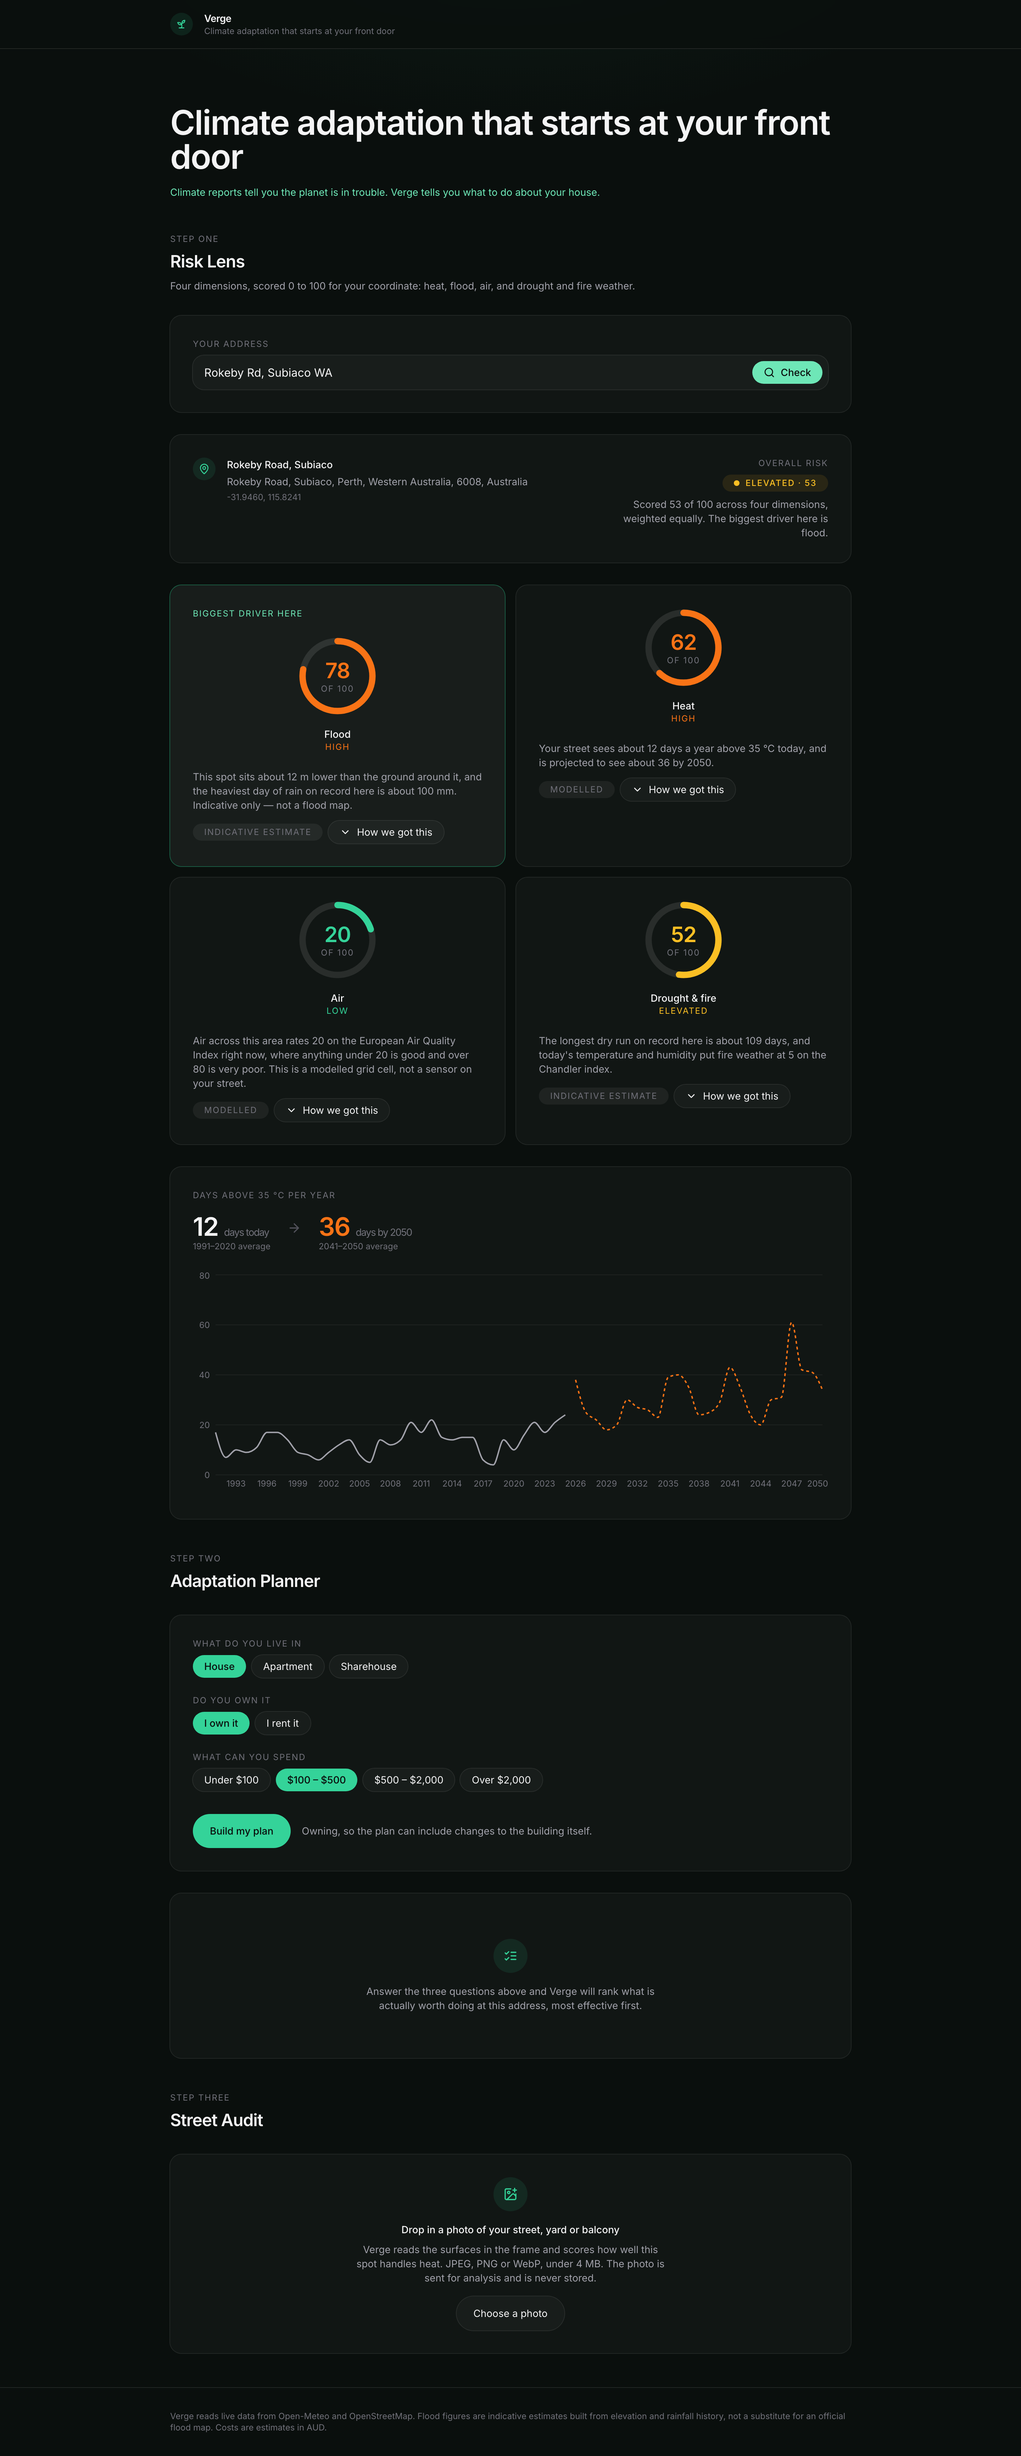
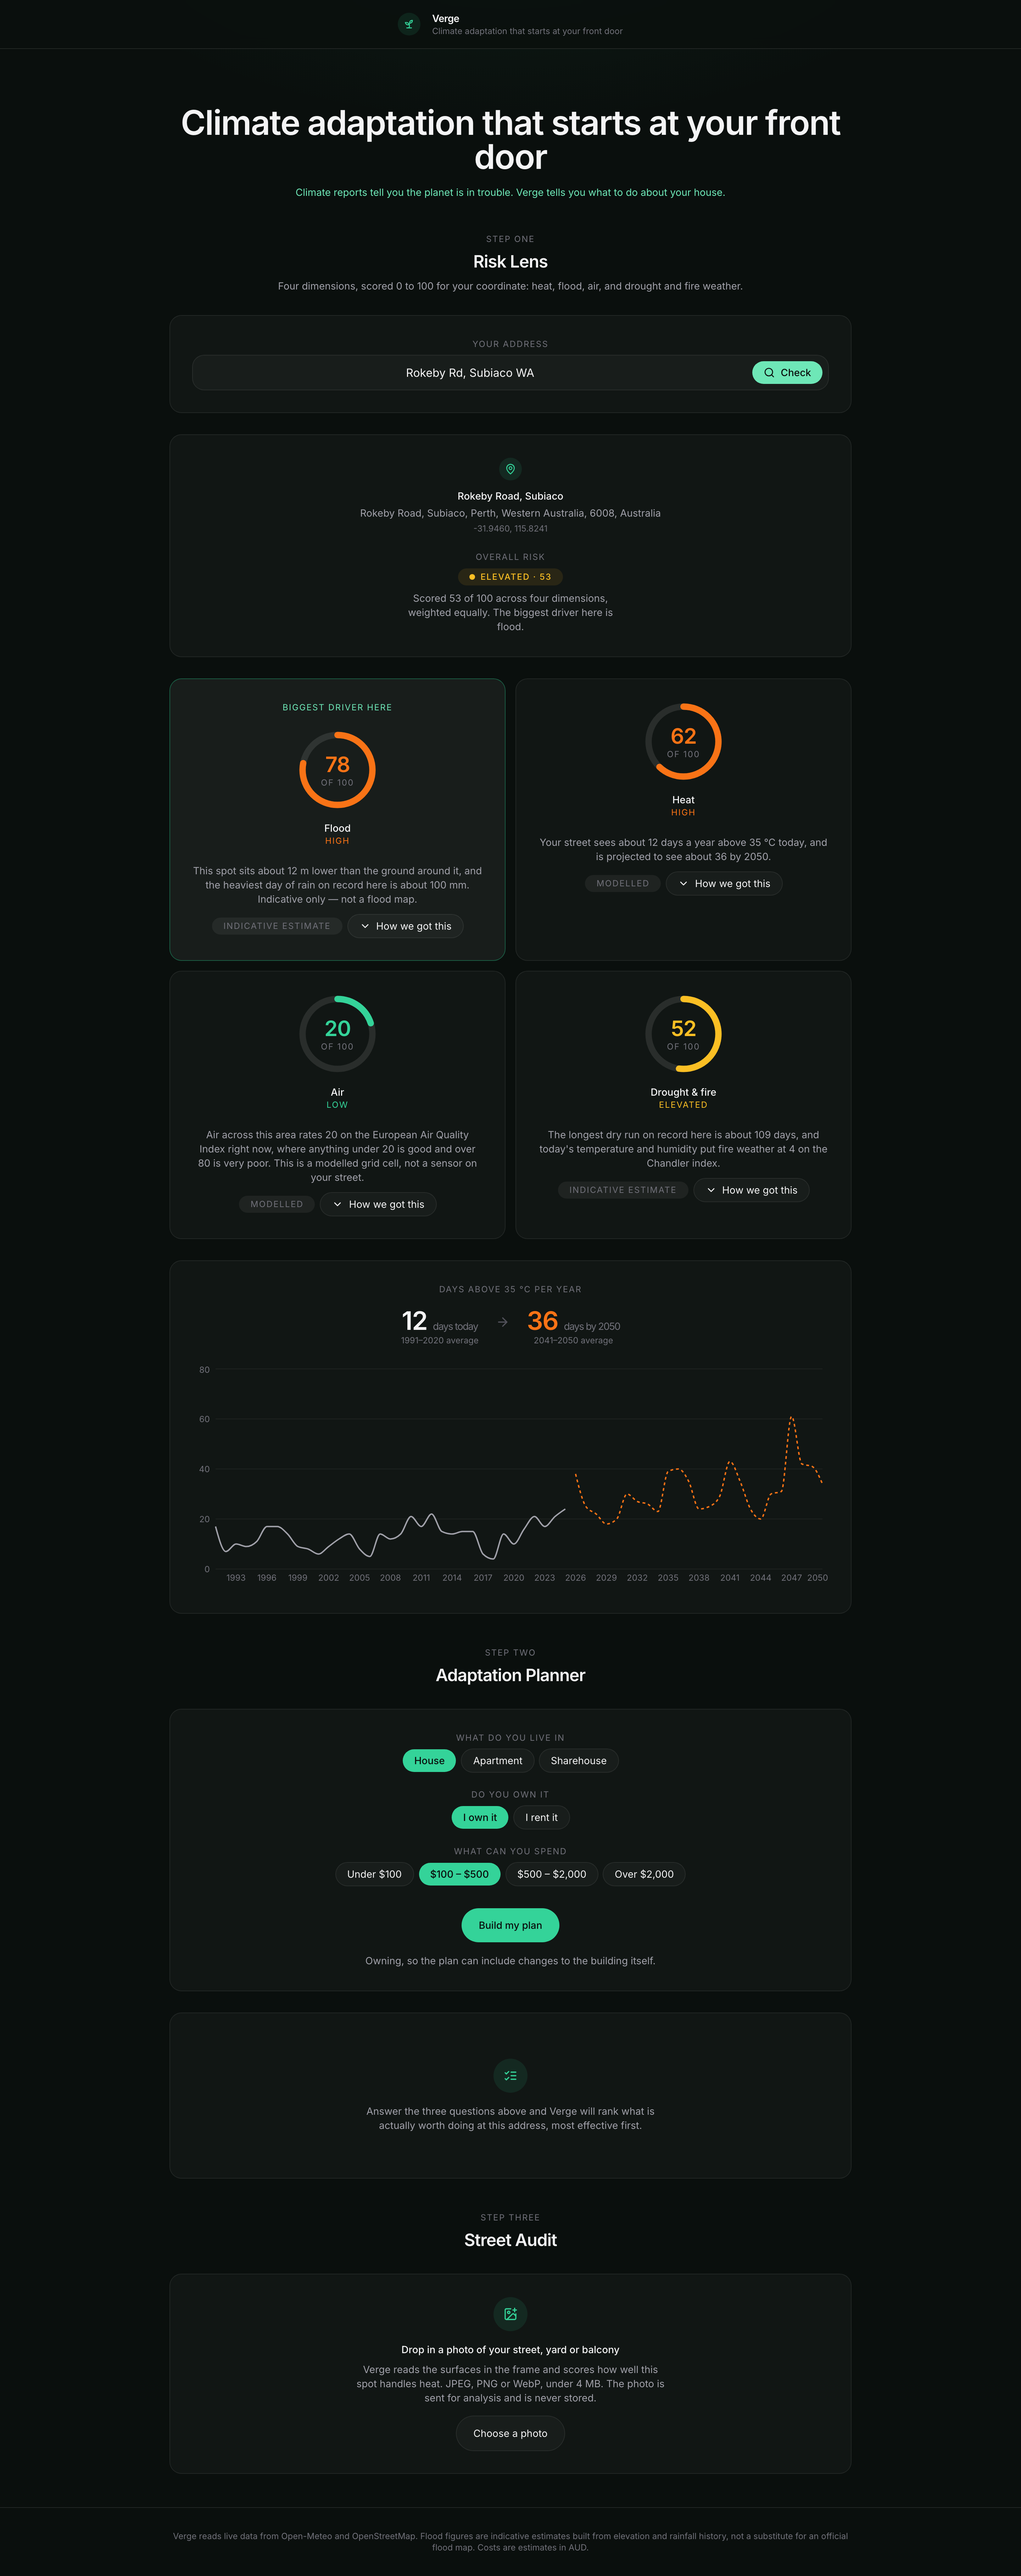
Centre-align the whole interface
text-align inherits, so the cascade is set once on the main column and the
footer, and the rest of the work is the flex rows that lay out horizontally
and would otherwise stay left regardless: section headings, the address field
and its label, the confidence and disclosure pills, the chart's two headline
numbers, every choice row in the dwelling form, action card titles and their
cost/effort columns, the plan summary and export button, the cooling score,
the intervention ranges, and the error state.

Surface rows in the audit were a four-column left-aligned row (dot, label,
coverage, thermal role). Centring that would have left four ragged columns,
so each row now stacks: label with its dot on one line, coverage and thermal
role on the next.

One of these replacements silently did nothing the first time because I
matched on the wrong indentation and did not assert — the plan summary row
stayed side-by-side and only turned up on screenshot review. Re-done with an
assertion.

Reads better than it would have a week ago: with the explanatory prose gone
there is very little long-form text left to suffer from a ragged left edge.

Verified at 390px: no overflow, nothing offscreen, nothing clipped.

diff --git a/src/components/planner/ActionCard.tsx b/src/components/planner/ActionCard.tsx
@@ -19,7 +19,7 @@ export function ActionCard({ action }: ActionCardProps) {
   return (
     <Card>
       <div className="space-y-4">
-        <div className="flex items-start justify-between gap-4">
+        <div className="flex flex-col items-center gap-2">
           <h3 className="text-sm font-medium text-zinc-100">{action.title}</h3>
           {/*
             Deliberately NOT the Badge primitive. Badge paints from the risk
@@ -36,7 +36,7 @@ export function ActionCard({ action }: ActionCardProps) {
 
         <p className="text-sm text-zinc-400">{action.what}</p>
 
-        <div className="flex flex-wrap gap-2">
+        <div className="flex flex-wrap justify-center gap-2">
           {action.reduces.map((dimension) => (
             <span
               key={dimension}
@@ -53,8 +53,8 @@ export function ActionCard({ action }: ActionCardProps) {
         </div>
 
         <dl className="grid grid-cols-1 gap-4 sm:grid-cols-2">
-          <div className="flex items-start gap-2">
-            <Wallet className="mt-1 h-4 w-4 shrink-0 text-zinc-500" aria-hidden="true" />
+          <div className="flex flex-col items-center gap-2">
+            <Wallet className="h-4 w-4 shrink-0 text-zinc-500" aria-hidden="true" />
             <div>
               <dt className="text-xs uppercase tracking-widest text-zinc-500">
                 Estimated cost
@@ -66,8 +66,8 @@ export function ActionCard({ action }: ActionCardProps) {
             </div>
           </div>
 
-          <div className="flex items-start gap-2">
-            <Clock className="mt-1 h-4 w-4 shrink-0 text-zinc-500" aria-hidden="true" />
+          <div className="flex flex-col items-center gap-2">
+            <Clock className="h-4 w-4 shrink-0 text-zinc-500" aria-hidden="true" />
             <div>
               <dt className="text-xs uppercase tracking-widest text-zinc-500">Effort</dt>
               <dd className="text-sm text-zinc-100">{formatEffort(action.effortHours)}</dd>

diff --git a/src/App.tsx b/src/App.tsx
@@ -35,8 +35,8 @@ interface PlaceCardProps {
 function PlaceCard({ place, profile }: PlaceCardProps) {
   return (
     <Card>
-      <div className="flex flex-col gap-6 md:flex-row md:items-start md:justify-between">
-        <div className="flex min-w-0 items-start gap-4">
+      <div className="flex flex-col items-center gap-6">
+        <div className="flex min-w-0 flex-col items-center gap-3">
           <span className="flex h-8 w-8 shrink-0 items-center justify-center rounded-full bg-accent-quiet">
             <MapPin className="h-4 w-4 text-accent" aria-hidden="true" />
           </span>
@@ -51,12 +51,12 @@ function PlaceCard({ place, profile }: PlaceCardProps) {
         </div>
 
         {profile ? (
-          <div className="shrink-0 space-y-2 md:text-right">
+          <div className="shrink-0 space-y-2">
             <p className="text-xs uppercase tracking-widest text-zinc-500">
               Overall risk
             </p>
             <Badge score={profile.composite} />
-            <p className="max-w-xs text-sm text-zinc-400">
+            <p className="mx-auto max-w-xs text-sm text-zinc-400">
               Scored {profile.composite} of 100 across four dimensions, weighted
               equally. The biggest driver here is{' '}
               {DIMENSION_META[profile.dominant].label.toLowerCase()}.
@@ -92,7 +92,7 @@ export default function App() {
         <h1 className="text-3xl font-semibold tracking-tight text-zinc-100 md:text-5xl">
           Climate adaptation that starts at your front door
         </h1>
-        <p className="max-w-2xl text-sm text-accent-text">
+        <p className="mx-auto max-w-2xl text-sm text-accent-text">
           Climate reports tell you the planet is in trouble. Verge tells you what to do
           about your house.
         </p>

diff --git a/src/components/audit/SurfaceOverlay.tsx b/src/components/audit/SurfaceOverlay.tsx
@@ -46,16 +46,16 @@ export function SurfaceOverlay({ previewUrl, surfaces }: SurfaceOverlayProps) {
 
         <ul className="space-y-3">
           {surfaces.map((surface) => (
-            <li key={surface.kind} className="flex items-center gap-4">
-              <span
-                className={cx('h-2 w-2 shrink-0 rounded-full', ROLE_STYLES[surface.thermalRole])}
-                aria-hidden="true"
-              />
-              <span className="flex-1 text-sm text-zinc-100">{surface.label}</span>
-              <span className="text-sm text-zinc-400">
-                about {Math.round(surface.coveragePct)}% of frame
+            <li key={surface.kind} className="flex flex-col items-center gap-1">
+              <span className="flex items-center justify-center gap-2">
+                <span
+                  className={cx('h-2 w-2 shrink-0 rounded-full', ROLE_STYLES[surface.thermalRole])}
+                  aria-hidden="true"
+                />
+                <span className="text-sm text-zinc-100">{surface.label}</span>
               </span>
-              <span className="hidden text-xs uppercase tracking-widest text-zinc-500 sm:inline">
+              <span className="text-sm text-zinc-400">
+                about {Math.round(surface.coveragePct)}% of frame ·{' '}
                 {ROLE_LABELS[surface.thermalRole]}
               </span>
             </li>

diff --git a/src/components/ui/Field.tsx b/src/components/ui/Field.tsx
@@ -47,7 +47,7 @@ export function Field({
     <div className="w-full">
       <label
         htmlFor={id}
-        className="mb-2 block text-xs uppercase tracking-widest text-zinc-500"
+        className="mb-2 block text-center text-xs uppercase tracking-widest text-zinc-500"
       >
         {label}
       </label>
@@ -71,7 +71,7 @@ export function Field({
           aria-describedby={description ? describedById : undefined}
           onChange={(event: ChangeEvent<HTMLInputElement>) => onChange(event.target.value)}
           className={cx(
-            'h-12 w-full min-w-0 bg-transparent text-zinc-100',
+            'h-12 w-full min-w-0 bg-transparent text-center text-zinc-100',
             'placeholder:text-zinc-500 focus:outline-none',
           )}
         />
@@ -81,7 +81,7 @@ export function Field({
       {description ? (
         <p
           id={describedById}
-          className={cx('mt-2 text-sm', error ? 'text-risk-severe' : 'text-zinc-400')}
+          className={cx('mt-2 text-center text-sm', error ? 'text-risk-severe' : 'text-zinc-400')}
         >
           {description}
         </p>

diff --git a/src/components/layout/AppShell.tsx b/src/components/layout/AppShell.tsx
@@ -17,12 +17,14 @@ export function AppShell({ children }: AppShellProps) {
     <div className="flex min-h-screen flex-col">
       <Header />
 
-      <main className="mx-auto w-full max-w-5xl flex-1 px-6 py-8 md:px-8 md:py-12">
+      {/* text-align inherits, so centring here carries to every descendant.
+          Flex rows that lay out horizontally are centred individually. */}
+      <main className="mx-auto w-full max-w-5xl flex-1 px-6 py-8 text-center md:px-8 md:py-12">
         <div className="space-y-8">{children}</div>
       </main>
 
       <footer className="border-t border-white/10">
-        <div className="mx-auto max-w-5xl space-y-2 px-6 py-8 text-xs text-zinc-500 md:px-8">
+        <div className="mx-auto max-w-5xl space-y-2 px-6 py-8 text-center text-xs text-zinc-500 md:px-8">
           <p>
             Verge reads live data from Open-Meteo and OpenStreetMap. Flood figures are
             indicative estimates built from elevation and rainfall history, not a

diff --git a/src/components/planner/DwellingForm.tsx b/src/components/planner/DwellingForm.tsx
@@ -39,10 +39,10 @@ function ChoiceRow<T extends string>({
 }: ChoiceRowProps<T>) {
   return (
     <fieldset disabled={disabled}>
-      <legend className="mb-2 text-xs uppercase tracking-widest text-zinc-500">
+      <legend className="mb-2 w-full text-center text-xs uppercase tracking-widest text-zinc-500">
         {label}
       </legend>
-      <div className="flex flex-wrap gap-2">
+      <div className="flex flex-wrap justify-center gap-2">
         {options.map((option) => (
           <Button
             key={option}
@@ -100,7 +100,7 @@ export function DwellingForm({
           disabled={disabled || loading}
         />
 
-        <div className="flex flex-col gap-4 pt-2 sm:flex-row sm:items-center">
+        <div className="flex flex-col items-center gap-4 pt-2">
           <Button
             loading={loading}
             disabled={disabled}

diff --git a/src/components/ui/ErrorState.tsx b/src/components/ui/ErrorState.tsx
@@ -33,9 +33,9 @@ export function ErrorState({ error, onRetry, title }: ErrorStateProps) {
   return (
     <div
       role="alert"
-      className="flex flex-col items-start gap-4 rounded-2xl bg-surface p-6 ring-1 ring-white/10 md:p-8"
+      className="flex flex-col items-center gap-4 rounded-2xl bg-surface p-6 text-center ring-1 ring-white/10 md:p-8"
     >
-      <div className="flex items-start gap-4">
+      <div className="flex flex-col items-center gap-3">
         <span className="flex h-8 w-8 shrink-0 items-center justify-center rounded-full bg-risk-severe/10">
           <AlertTriangle className="h-4 w-4 text-risk-severe" aria-hidden="true" />
         </span>

diff --git a/src/components/planner/PlanList.tsx b/src/components/planner/PlanList.tsx
@@ -117,8 +117,8 @@ export function PlanList({ plan, loading = false, error, onRetry }: PlanListProp
 
   return (
     <div className="space-y-4">
-      <div className="flex flex-col gap-4 sm:flex-row sm:items-start sm:justify-between">
-        <p className="max-w-2xl text-sm text-zinc-400">{plan.summary}</p>
+      <div className="flex flex-col items-center gap-4">
+        <p className="max-w-2xl text-center text-sm text-zinc-400">{plan.summary}</p>
         <Button variant="ghost" size="sm" loading={exporting} onClick={() => void handleExport()}>
           <Download className="h-4 w-4" aria-hidden="true" />
           Save as PDF

diff --git a/src/components/audit/Interventions.tsx b/src/components/audit/Interventions.tsx
@@ -27,7 +27,7 @@ export function Interventions({ interventions }: InterventionsProps) {
 
             <p className="text-sm text-zinc-400">{intervention.description}</p>
 
-            <div className="flex flex-wrap items-center gap-2">
+            <div className="flex flex-wrap items-center justify-center gap-2">
               <span className="rounded-full bg-accent-quiet px-4 py-1 text-xs uppercase tracking-widest text-accent-text">
                 −{intervention.coolingEffectC.low} to −{intervention.coolingEffectC.high} °C
               </span>

diff --git a/src/components/layout/Header.tsx b/src/components/layout/Header.tsx
@@ -10,7 +10,7 @@ import { Sprout } from 'lucide-react'
 export function Header() {
   return (
     <header className="sticky top-0 z-10 border-b border-white/10 bg-canvas/80 backdrop-blur">
-      <div className="mx-auto flex max-w-5xl items-center gap-4 px-6 py-4 md:px-8">
+      <div className="mx-auto flex max-w-5xl items-center justify-center gap-4 px-6 py-4 md:px-8">
         <span
           className="flex h-8 w-8 shrink-0 items-center justify-center rounded-full bg-accent-quiet"
           aria-hidden="true"

diff --git a/src/components/layout/SectionHeading.tsx b/src/components/layout/SectionHeading.tsx
@@ -18,8 +18,8 @@ export function SectionHeading({
   action,
 }: SectionHeadingProps) {
   return (
-    <div className="flex flex-col gap-4 md:flex-row md:items-end md:justify-between">
-      <div className="max-w-2xl">
+    <div className="flex flex-col items-center gap-4">
+      <div className="max-w-2xl text-center">
         <p className="text-xs uppercase tracking-widest text-zinc-500">{eyebrow}</p>
         <h2 className="mt-2 text-2xl font-semibold tracking-tight text-zinc-100">
           {title}

diff --git a/src/components/lens/TrendChart.tsx b/src/components/lens/TrendChart.tsx
@@ -111,7 +111,7 @@ export function TrendChart({
             2050" is the fact people repeat afterwards, and burying it in the
             axis labels wasted it.
           */}
-          <div className="mt-4 flex flex-wrap items-end gap-x-6 gap-y-2">
+          <div className="mt-4 flex flex-wrap items-end justify-center gap-x-6 gap-y-2">
             <div>
               <p className="text-4xl font-semibold tracking-tight text-zinc-100">
                 {Math.round(projection.baselineMean)}
